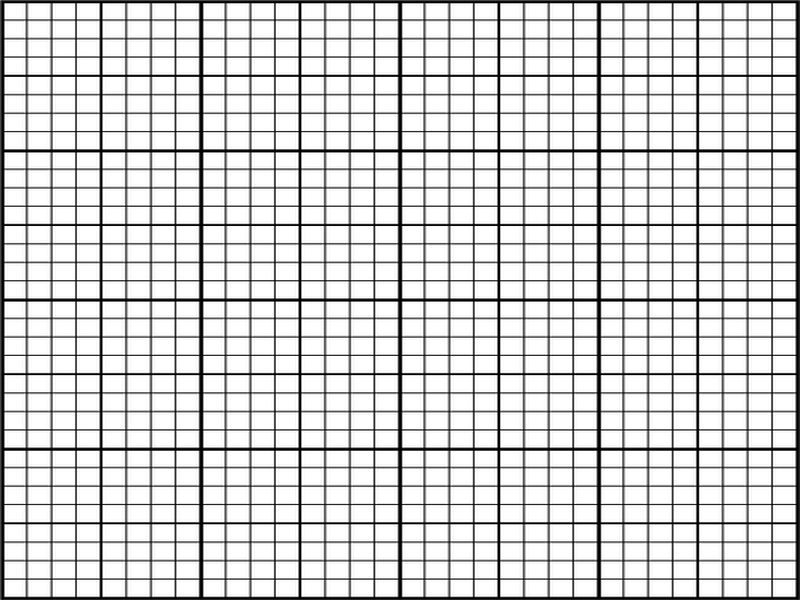
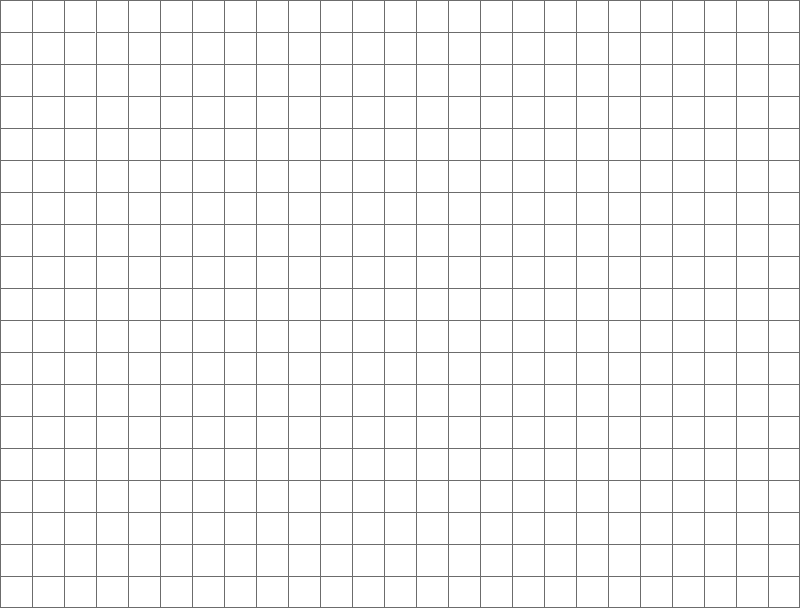
Finishing touches, Added grid as a background and fixed window size

diff --git a/Python/Snake Game/main.py b/Python/Snake Game/main.py
@@ -7,13 +7,13 @@ import time
 import pygame
 
 # Window size constants
-w, h = 800, 600
+w, h = 800, 608
 
 
 # Snake
 @dataclasses.dataclass
 class SnakeMovement:
-    """Snake movement dataclass cuz pylint keeps saying "too-many-instance-attributes."""
+    """Snake movement dataclass cuz pylint keeps saying \"too-many-instance-attributes.\" """
 
     x: list
     y: list
@@ -117,10 +117,11 @@ class Game:
     def __init__(self):
         pygame.init()
         self.window = pygame.display.set_mode((w, h))
-        logo = pygame.image.load("snake.png")
+        self.background_img = pygame.image.load("Grid 32x32.png")
+        logo = pygame.image.load("logo.png")
         pygame.display.set_icon(logo)
         pygame.display.set_caption("Snake Game by KTN.")
-        self.default_snake_length = 2
+        self.default_snake_length = 3
         self.snake = Snake(self.window, self.default_snake_length)
         self.snake.draw()
         self.food = Food(self.window)
@@ -130,8 +131,8 @@ class Game:
     def display_score(self):
         """Displays the score."""
         score_font = pygame.font.Font("freesansbold.ttf", 32)
-        score_text = score_font.render(f"Score: {self.score}", True, (255, 255, 255))
-        self.window.blit(score_text, (32, 32))
+        score_text = score_font.render(f"Score: {self.score}", True, (255, 255, 0))
+        self.window.blit(score_text, (0, 0))
 
     def update_score(self, score):
         """Updates the score."""
@@ -203,11 +204,11 @@ class Game:
             self.snake.movement.x[i], self.snake.movement.y[i] = 1000, 1000
         game_over_font = pygame.font.Font("freesansbold.ttf", 64)
         restart_font = pygame.font.Font("freesansbold.ttf", 16)
-        game_over_text = game_over_font.render("GAME OVER", True, (255, 255, 255))
+        game_over_text = game_over_font.render("GAME OVER", True, (255, 0, 0))
         restart_text = restart_font.render(
             "Press 'r' to restart the game or 'q' to quit the game.",
             True,
-            (255, 255, 255),
+            (0, 255, 0),
         )
         self.window.blit(game_over_text, (200, 250))
         self.window.blit(restart_text, (200, 350))
@@ -243,12 +244,13 @@ class Game:
             # Color
             self.window.fill((0, 0, 0))
 
-            # Score
-            self.display_score()
-
             # Calling Snake and Food
             self.food.spawn()
             self.snake.draw()
+            self.window.blit(self.background_img, (0, 0))
+
+            # Score
+            self.display_score()
 
             # Check collisions
             self.food_collision()
